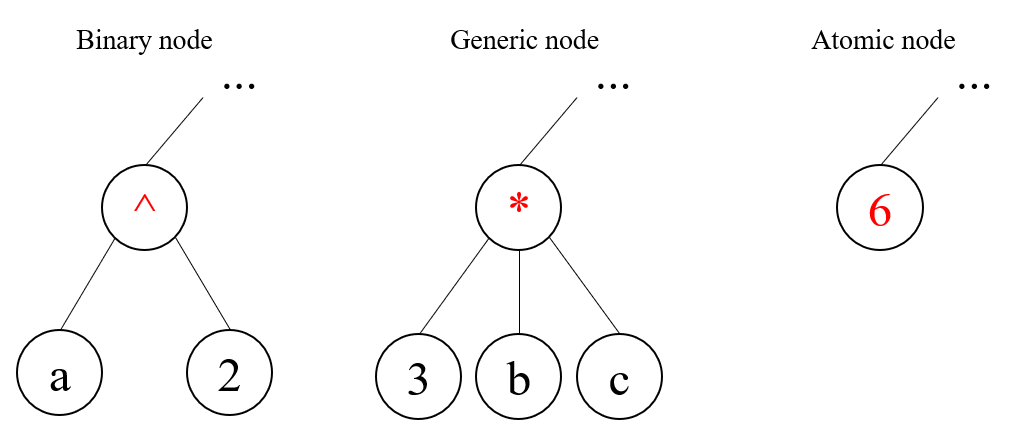
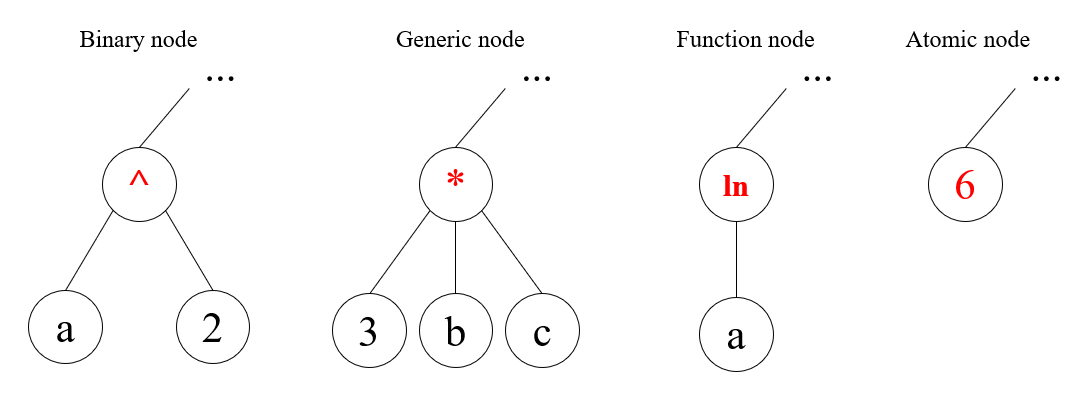
Modified Resources and README.

diff --git a/README.md b/README.md
@@ -1,7 +1,7 @@
 # YAASC
 YAASC (Yet Another Aspiring Symbolic Calculator) is an aspiring [CAS](https://en.wikipedia.org/wiki/Computer_algebra_system) made from scratch. It is designed for performing simplification operations on different algebraic expressions. All the expressions are stored in a tree (datastructure).
 
-An expression tree is constructed from an input string given by the user. Expression nodes in the tree can be binary, generic or atomic. A binary node has only two children, where as a generic node can have arbitrary number of children. An atomic node doesn't have any children. By modifying the expression tree with different algorithms, the mathematical expression given by the user can be simplified.
+An expression tree is constructed from an input string given by the user. Expression nodes in the tree can be binary, generic, function or atomic. A binary node has two children, where as a generic node can have arbitrary number of children. A function node has only one child (parameter) and an atomic node doesn't have any children. By modifying the expression tree with different algorithms, the mathematical expression given by the user can be simplified.
 
 
 ### Example 1: Different nodes
@@ -40,10 +40,10 @@ At this point some algebraic expression can be simplified:
          simplified: 6
 >>>0-2xy+0
          simplified: -2xy
->>>4!+a
-         simplified: 24+a
->>>3!+a^2a+4!
-         simplified: 30+a^3       
+>>>4!+x
+         simplified: 24+x
+>>>3!+x^2x+4!
+         simplified: 30+x^3       
 >>>2xyz+3yxz+4zxy
          simplified: 9xyz   
 >>>x2yz+zyx+zyx5
@@ -56,8 +56,8 @@ At this point some algebraic expression can be simplified:
          simplified: 2xy+x^2+y^2
 >>>(xy)^1
          simplified: xy
->>>-4!+(a+b)^3+(ab)^0
-         simplified: -23+3a^2b+3ab^2+a^3+b^3   
+>>>-4!+(x+y)^3+(xy)^0
+         simplified: -23+3x^2y+3xy^2+x^3+y^3   
 ```
 
 Multiplication sign ( * ) and spaces are optional, but however those can be added into the input string:
